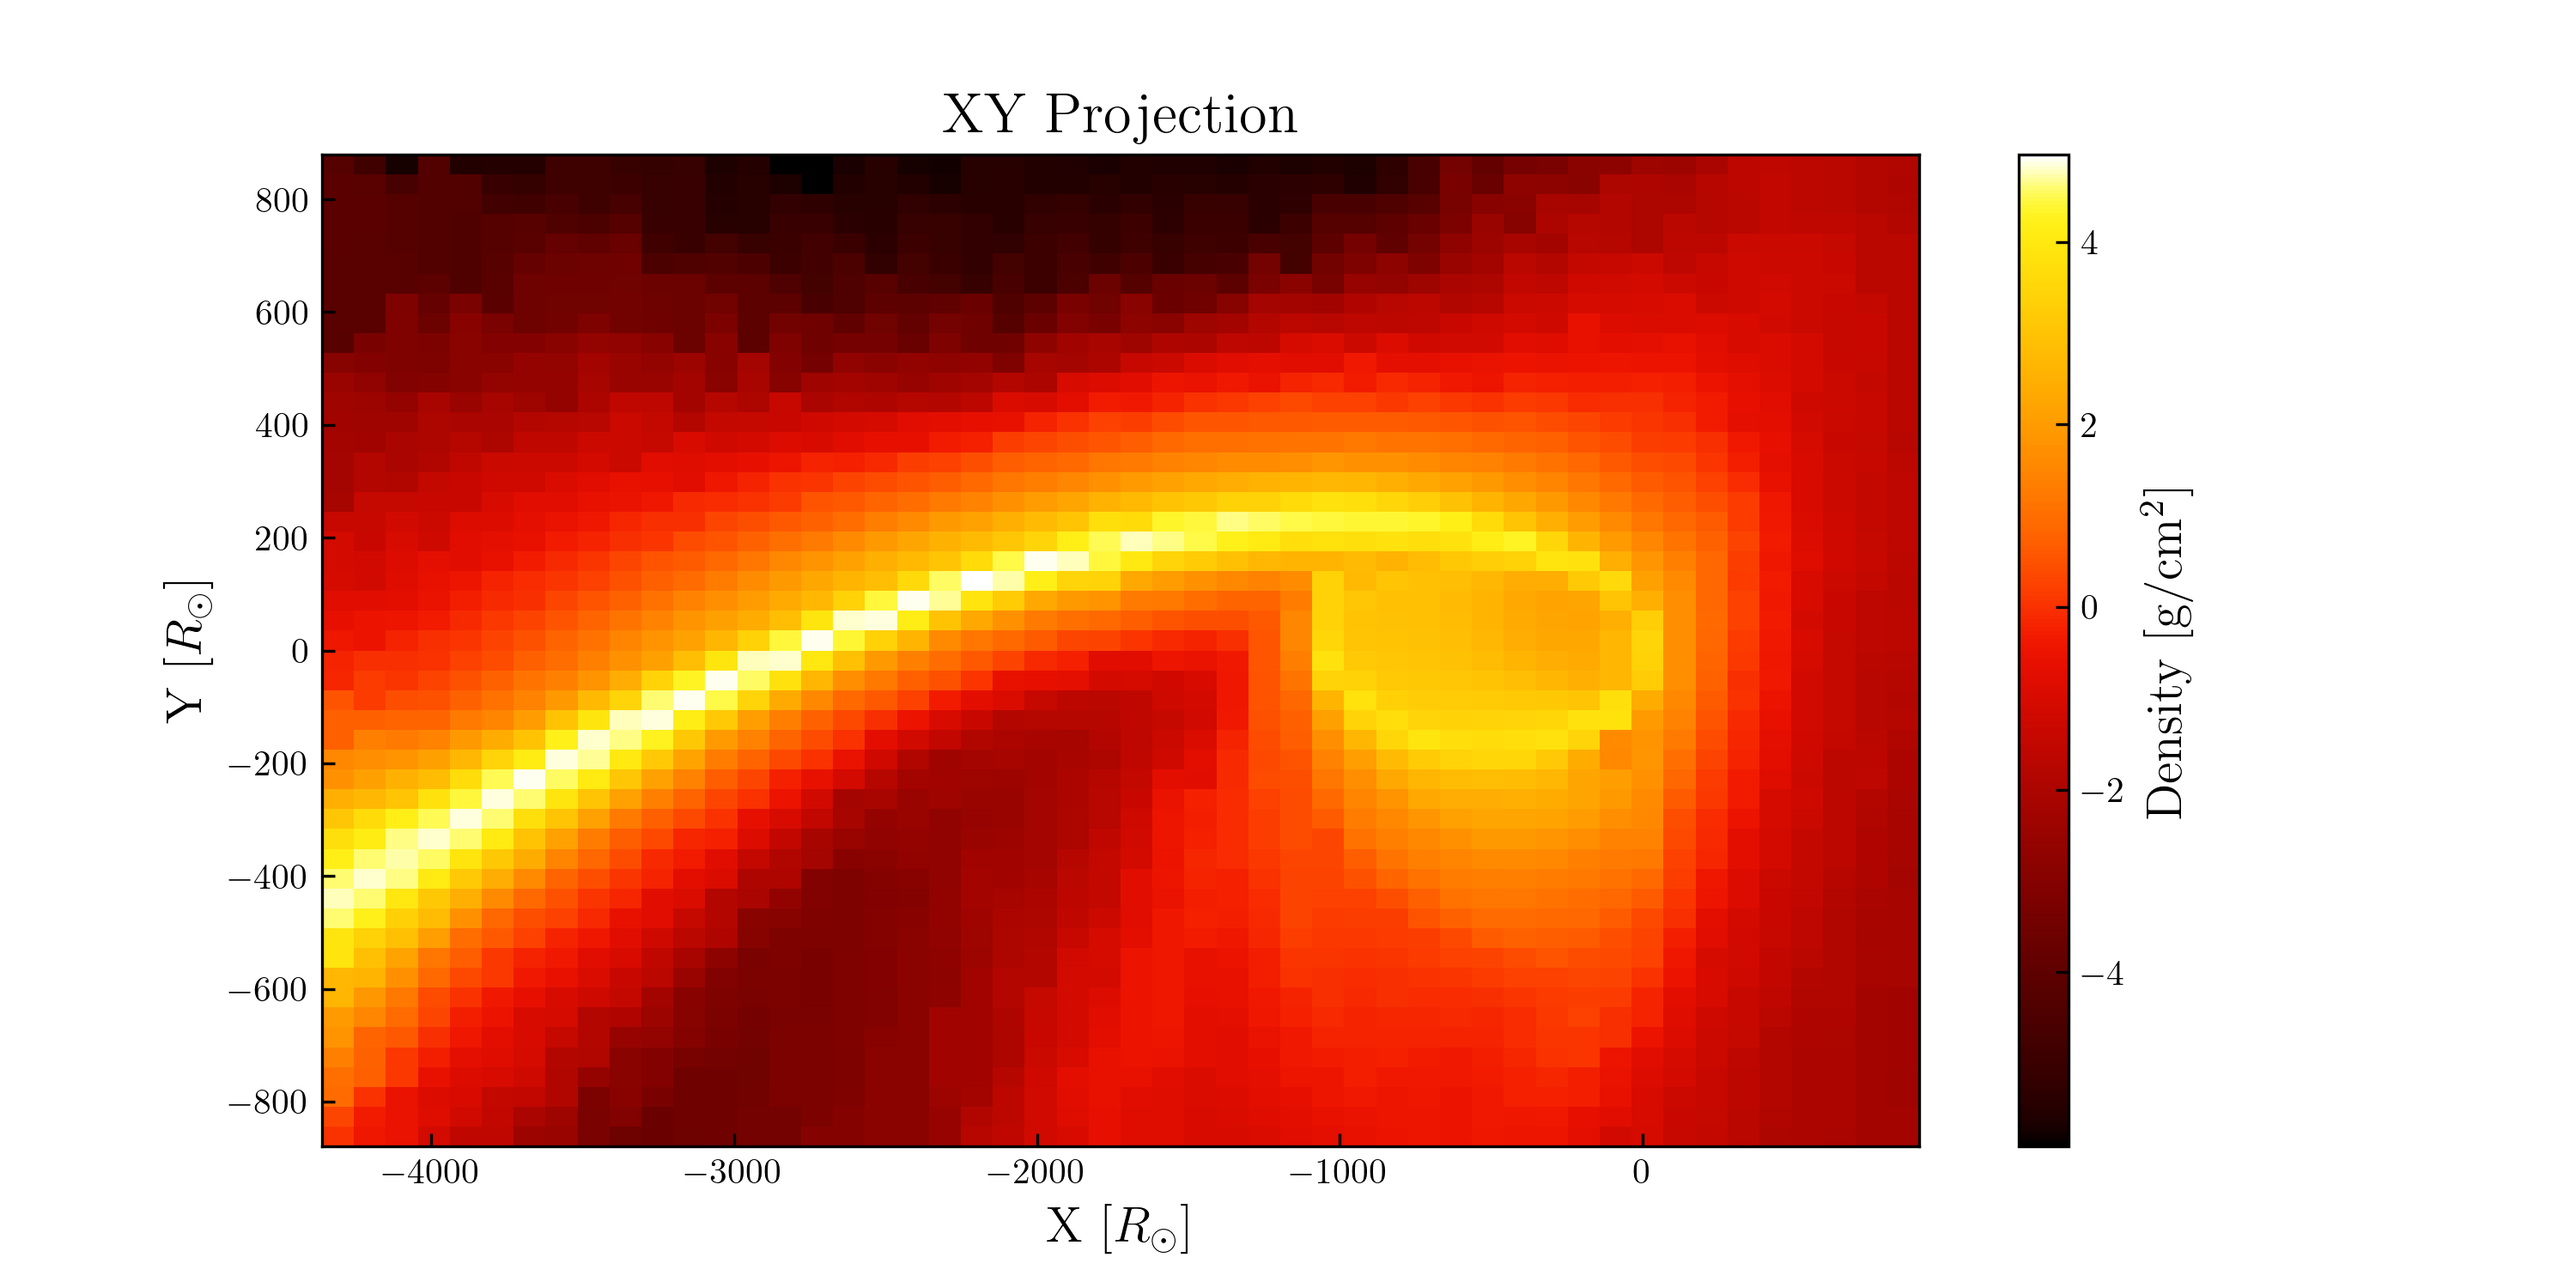
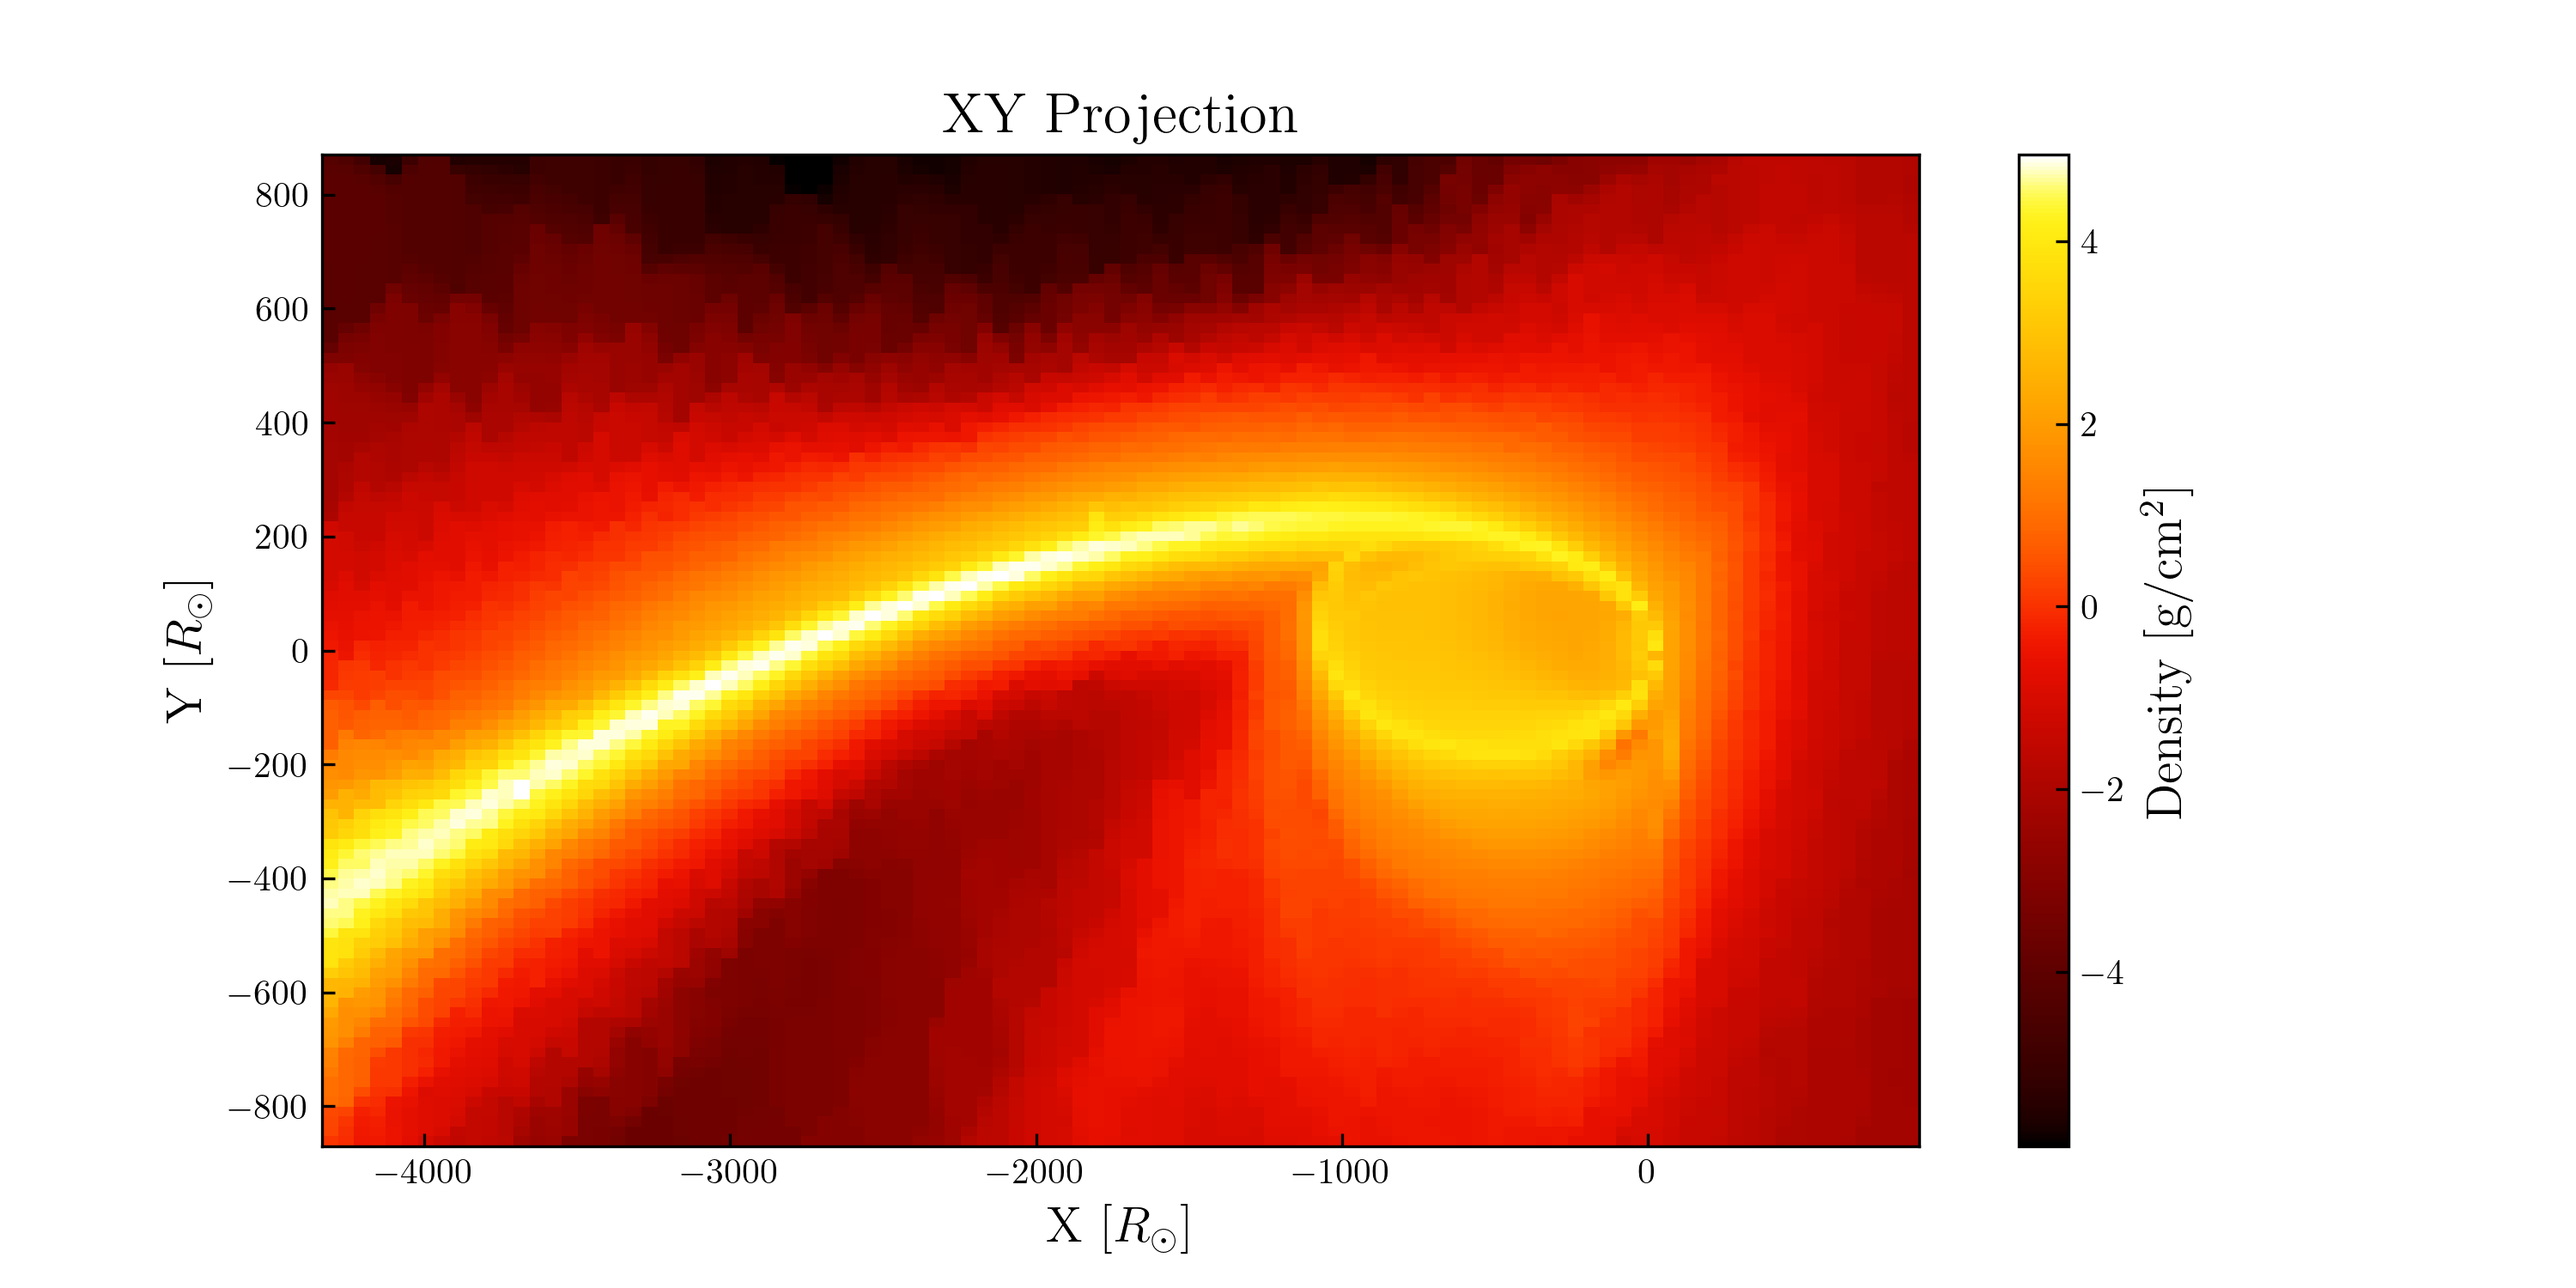
proj

diff --git a/src/Calculators/THREE_tree_caster.py b/src/Calculators/THREE_tree_caster.py
@@ -1,7 +1,7 @@
 #!/usr/bin/env python3
 # -*- coding: utf-8 -*-
 """
-Make a 3D grid of the data, searching for simulation data in the vicinity of the one chosem.
+Make a 3D grid, searching for simulation data in the vicinity of the one chosen and storing X,Y,Z,Den.
 Created on Tue Oct 10 10:19:34 2023
 
 @authors: paola, konstantinos
@@ -24,7 +24,7 @@ Msol_to_g = 1.989e33 # [g]
 Rsol_to_cm = 6.957e10 # [cm]
 den_converter = Msol_to_g / Rsol_to_cm**3
 
-def grid_maker(fix, m, star, check, what, mass_weigh, x_num, y_num, z_num = 100):
+def grid_maker(fix, m, star, check, x_num, y_num, z_num = 100, mass_weight=False):
     """ ALL outputs are in in solar units """
     Mbh = 10**m
     fix = str(fix)
@@ -65,15 +65,15 @@ def grid_maker(fix, m, star, check, what, mass_weigh, x_num, y_num, z_num = 100)
     z_start = -2 * Rt
     z_stop = 2 * Rt
     z_num = 100
-    z_radii = np.linspace(z_start, z_stop, z_num) #simulator units
+    zs = np.linspace(z_start, z_stop, z_num) #simulator units
 
-    gridded_indexes =  np.zeros(( len(xs), len(ys), len(z_radii) ))
-    gridded_den =  np.zeros(( len(xs), len(ys), len(z_radii) ))
-    gridded_mass =  np.zeros(( len(xs), len(ys), len(z_radii) ))
+    gridded_indexes =  np.zeros(( len(xs), len(ys), len(zs) ))
+    gridded_den =  np.zeros(( len(xs), len(ys), len(zs) ))
+    gridded_mass =  np.zeros(( len(xs), len(ys), len(zs) ))
     for i in range(len(xs)):
         for j in range(len(ys)):
-            for k in range(len(z_radii)):
-                queried_value = [xs[i], ys[j], z_radii[k]]
+            for k in range(len(zs)):
+                queried_value = [xs[i], ys[j], zs[k]]
                 _, idx = sim_tree.query(queried_value)
                                     
                 # Store
@@ -94,7 +94,7 @@ def grid_maker(fix, m, star, check, what, mass_weigh, x_num, y_num, z_num = 100)
 
     # return xs/apocenter, ys/apocenter, den_cast, apocenter# , days
     # 
-    return gridded_indexes, gridded_den, gridded_mass, xs, ys, z_radii
+    return gridded_indexes, gridded_den, gridded_mass, xs, ys, zs
 
  
 if __name__ == '__main__':

diff --git a/src/Projectors/projector_tree.py b/src/Projectors/projector_tree.py
@@ -21,7 +21,7 @@ import os
 # Constants & Converter
 Rsol_to_cm = 6.957e10 # [cm]
 
-# @numba.njit
+@numba.njit
 def projector(gridded_den, gridded_mass, mass_weigh, x_radii, y_radii, z_radii, what):
     """ Project density on XY plane. NB: to plot you have to transpose the saved data"""
     # Make the 3D grid 
@@ -35,12 +35,10 @@ def projector(gridded_den, gridded_mass, mass_weigh, x_radii, y_radii, z_radii, 
             for k in range(len(z_radii) - 1): # NOTE SKIPPING LAST Z PLANE
                 dz = (z_radii[k+1] - z_radii[k]) * Rsol_to_cm
                 if mass_weigh:
-                    print('mass weight')
                     mass_zsum += gridded_mass[i,j,k]
                     flat_den[i,j] += gridded_den[i,j,k] * dz * gridded_mass[i,j,k]
                 else:
                     if what == 'density':
-                        print('here')
                         flat_den[i,j] += gridded_den[i,j,k] * dz
                     else: 
                         flat_den[i,j] += gridded_den[i,j,k]
@@ -57,7 +55,7 @@ if __name__ == '__main__':
     save = True
     check = 'fid' 
     what = 'density' # temperature or density
-    snapshots = np.arange(2, 365)#select_snap(m, check)
+    snapshots = np.arange(3,266)#select_snap(m, check)
 
     for snap in snapshots:
         if alice:
@@ -65,8 +63,8 @@ if __name__ == '__main__':
         else:
             pre_file = f'{m}/{snap}'
         if os.path.exists(pre_file):
-            _, grid_den, grid_mass, xs, ys, zs = grid_maker(snap, m, star, check, what, False,
-                                                            500, 500, 100)
+            _, grid_den, grid_mass, xs, ys, zs = grid_maker(snap, m, star, check,
+                                                            500, 500, 100, False)
             flat_den = projector(grid_den, grid_mass, False,
                                 xs, ys, zs, what)
 
